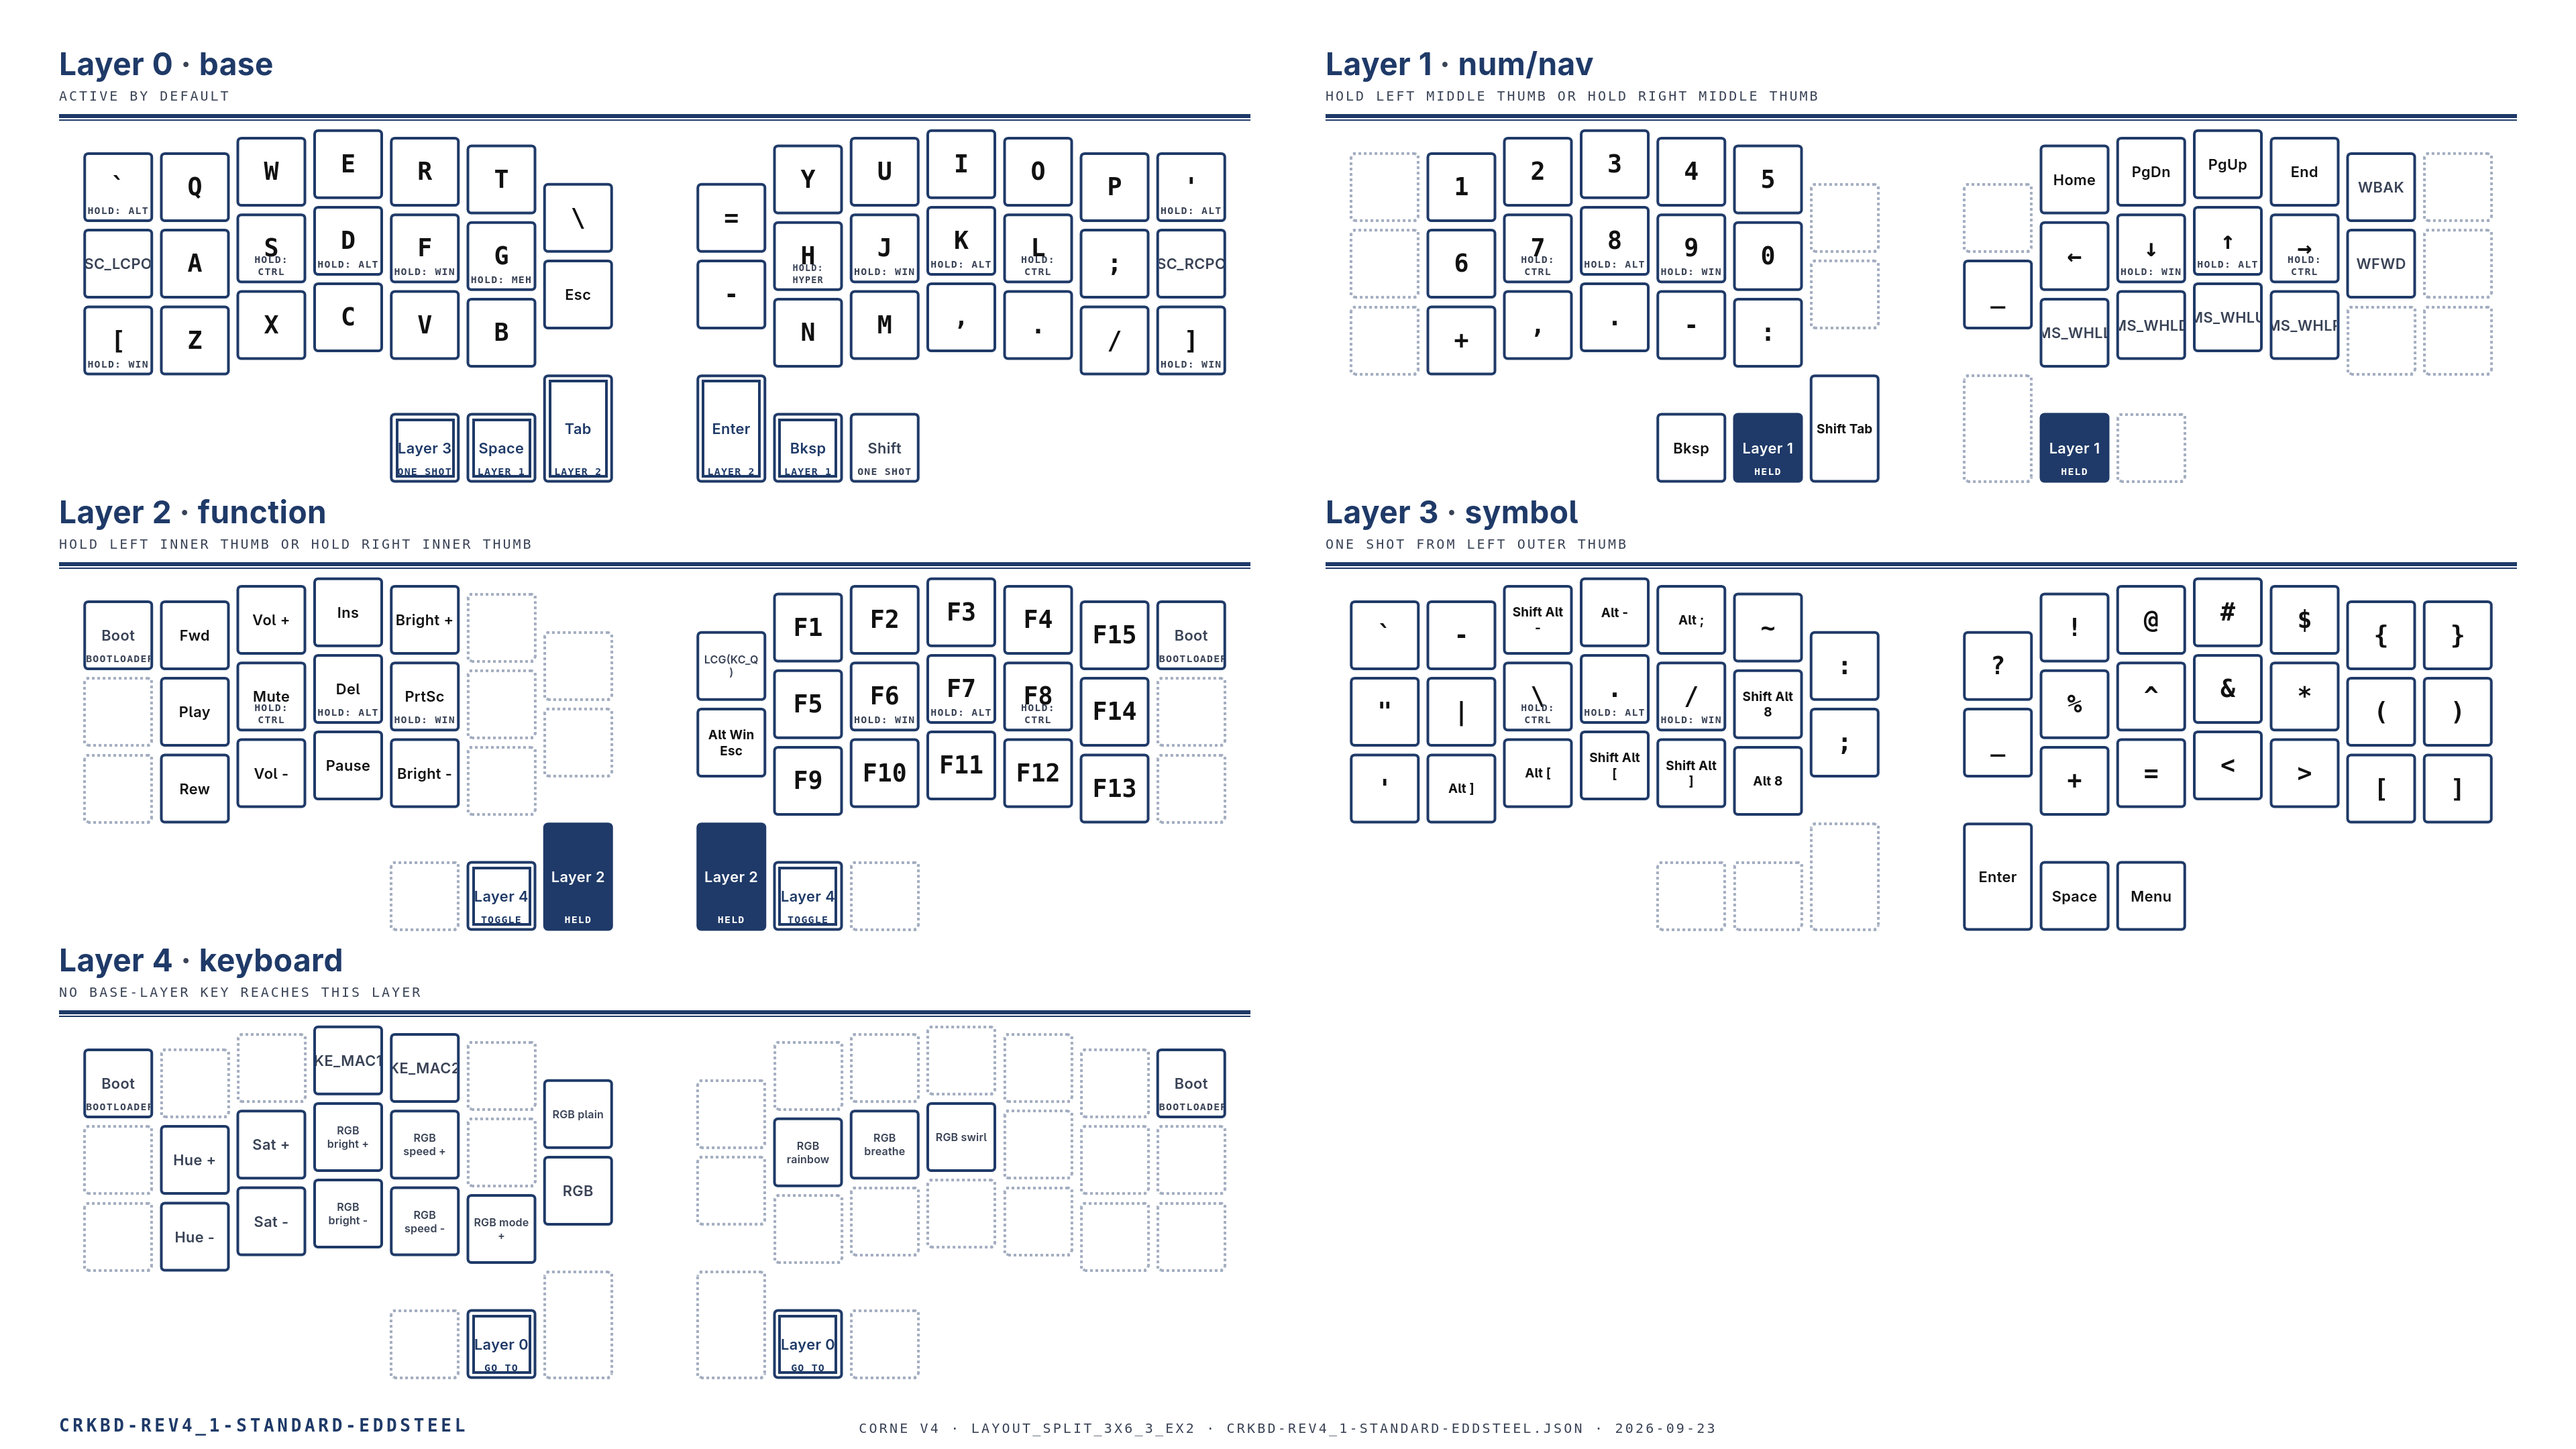
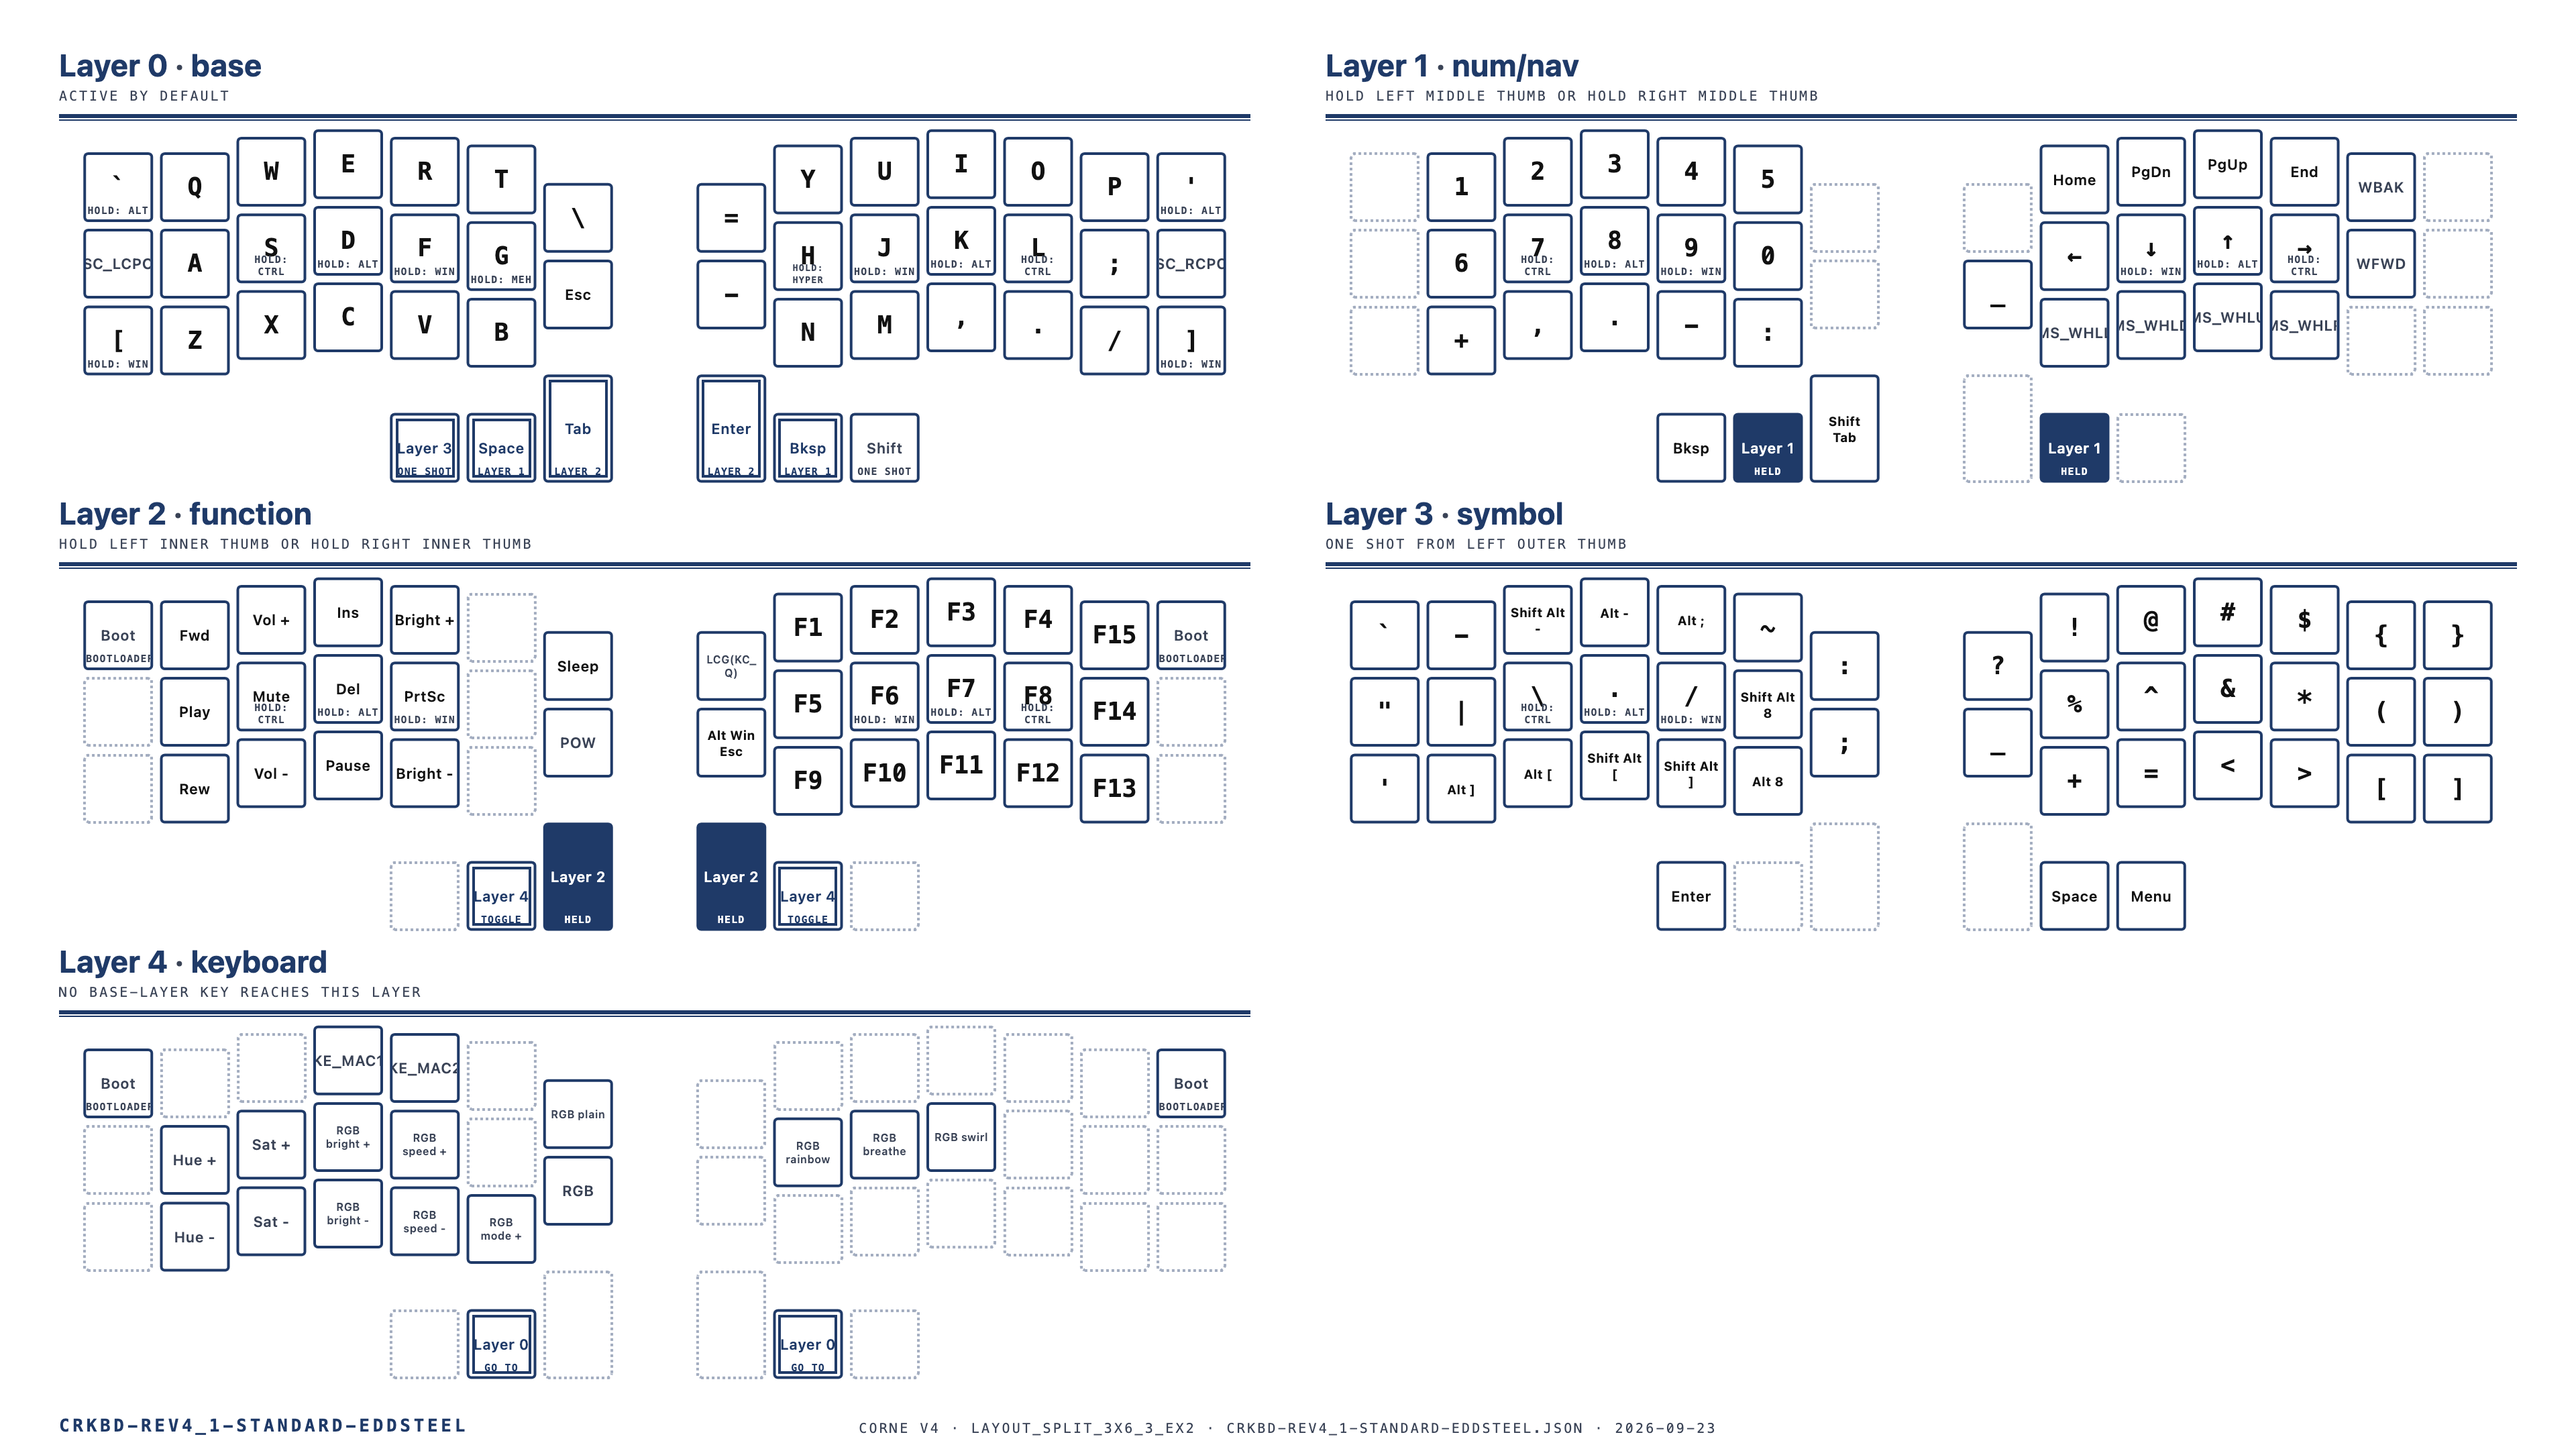
allow one-handed enter

diff --git a/keyboards/zsa/moonlander/reva/keymaps/eddsteel/keymap.c b/keyboards/zsa/moonlander/reva/keymaps/eddsteel/keymap.c
@@ -35,7 +35,7 @@ const uint16_t PROGMEM keymaps[][MATRIX_ROWS][MATRIX_COLS] = {
     KC_QUOTE,       KC_PIPE,        MT(MOD_LCTL, KC_BSLS),MT(MOD_LALT, KC_DOT),MT(MOD_LGUI, KC_SLASH),LALT(LSFT(KC_8)),KC_SCLN,                                                                        KC_UNDS,        KC_PERC,        KC_CIRC,        KC_AMPR,        KC_ASTR,        KC_LPRN,        KC_RPRN,        
     KC_DQUO,        RALT(KC_RBRC),  RALT(KC_LBRC),  LALT(LSFT(KC_LBRC)),LALT(LSFT(KC_RBRC)),LALT(KC_8),                                     KC_PLUS,        KC_EQUAL,       KC_LABK,        KC_RABK,        KC_LBRC,        KC_RBRC,        
     KC_TRANSPARENT, KC_TRANSPARENT, KC_TRANSPARENT, KC_TRANSPARENT, KC_TRANSPARENT, KC_TRANSPARENT,                                                                                                 KC_TRANSPARENT, KC_APPLICATION, KC_TRANSPARENT, KC_TRANSPARENT, KC_TRANSPARENT, KC_TRANSPARENT, 
-    KC_TRANSPARENT, KC_TRANSPARENT, KC_TRANSPARENT,                 KC_TRANSPARENT, KC_ENTER,       KC_SPACE
+    KC_ENTER, KC_TRANSPARENT, KC_TRANSPARENT,                 KC_TRANSPARENT, KC_TRANSPARENT,       KC_SPACE
   ),
   [4] = LAYOUT_moonlander(
     KC_TRANSPARENT, KC_TRANSPARENT, KC_TRANSPARENT, KC_TRANSPARENT, KC_TRANSPARENT, KC_TRANSPARENT, KC_TRANSPARENT,                                 KC_TRANSPARENT, KC_TRANSPARENT, KC_TRANSPARENT, KC_TRANSPARENT, KC_TRANSPARENT, KC_TRANSPARENT, KC_TRANSPARENT, 
@@ -52,7 +52,7 @@ const char chordal_hold_layout[MATRIX_ROWS][MATRIX_COLS] PROGMEM = LAYOUT(
   'L', 'L', 'L', 'L', 'L', 'L', 'L', 'R', 'R', 'R', 'R', 'R', 'R', 'R',
   'L', 'L', 'L', 'L', 'L', 'L', 'L', 'R', 'R', 'R', 'R', 'R', 'R', 'R',
   'L', 'L', 'L', 'L', 'L', 'L', 'R', 'R', 'R', 'R', 'R', 'R',
-  'L', 'L', 'L', 'L', 'L', '*', '*', 'R', 'R', 'R', 'R', 'R',
+  'L', 'L', 'L', 'L', '*', '*', '*', '*', 'R', 'R', 'R', 'R',
                  '*', '*', '*', '*', '*', '*'
 );
 

diff --git a/keyboards/crkbd/rev4_1/standard/keymaps/eddsteel/keymap.c b/keyboards/crkbd/rev4_1/standard/keymaps/eddsteel/keymap.c
@@ -136,7 +136,7 @@ const uint16_t PROGMEM keymaps[][MATRIX_ROWS][MATRIX_COLS] = {
         KC_GRV, KC_MINS, KE_NDSH, KE_MDSH, KE_ELPS, KC_TILD, KC_COLN,    KC_QUES, KC_EXLM,   KC_AT, KC_HASH,  KC_DLR, KC_LCBR, KC_RCBR,
        KC_DQUO, KC_PIPE, KE_LCBS, KE_LAPD, KE_LGSL, KE_DEGR, KC_SCLN,    KC_UNDS, KC_PERC, KC_CIRC, KC_AMPR, KC_ASTR, KC_LPRN, KC_RPRN,
        KC_QUOT, KE_FLSQ, KE_FLDQ, KE_FRDQ, KE_FRSQ, KE_BULL,                      KC_PLUS,  KC_EQL,   KC_LT,   KC_GT, KC_LBRC, KC_RBRC,
-                                           _______, _______, _______,    KC_ENT,  KC_SPC,   KC_APP
+                                            KC_ENT, _______, _______,    _______,  KC_SPC,   KC_APP
     ),
     [KYBD] = LAYOUT_split_3x6_3_ex2(
        QK_BOOT, XXXXXXX, XXXXXXX, KE_MAC1, KE_MAC2, XXXXXXX, RGB_M_P,    XXXXXXX, XXXXXXX, XXXXXXX, XXXXXXX, XXXXXXX, XXXXXXX, QK_BOOT,
